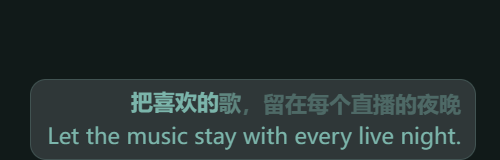
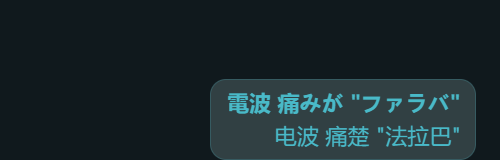
Use selected NetEase song for marketplace and README previews

Changed region(s): [[0.06, 0.4688, 0.93, 1.0]]

diff --git a/README.md b/README.md
@@ -20,10 +20,10 @@ Material You 动态配色 · 发光封面 · 分体卡片 · 自适应小词栏
 
 | 歌曲信息 | 逐字小词栏 |
 | :---: | :---: |
-| ![歌曲组件：发光封面、分体卡片、动态柱条与进度](docs/images/player-preview.png) | ![小词栏：逐字高亮、翻译与自适应宽度](docs/images/lyrics-preview.png) |
+| ![歌曲组件：发光封面、分体卡片、动态柱条与进度](docs/images/player-preview.png) | ![小词栏：歌词、翻译与自适应宽度](docs/images/lyrics-preview.png) |
 | 封面、歌名、歌手、时间与播放进度 | 中文逐字歌词、翻译、最大宽度与自动换行 |
 
-> 预览使用插件实际渲染的组件与原创演示封面；歌曲、歌词均为演示数据。网页背景透明，图片中的底色仅用于展示。
+> 预览曲目：[エレクトリック・ミラージュ・感情（电幻蜃景·感情）](https://music.163.com/song?id=2757802724)，歌手：テクノポップ・有機・シンセサイザーちゃん。封面、歌曲信息与歌词摘句来自网易云音乐，图片使用插件实际渲染的组件。网页背景透明，图片底色仅用于展示。
 
 ### 给直播画面留出空间
 
